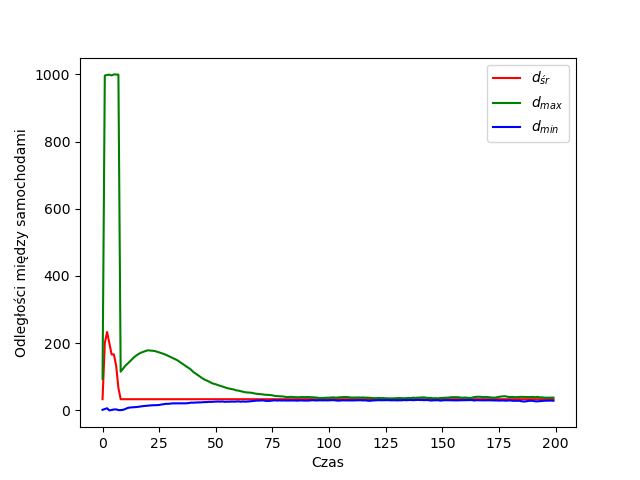
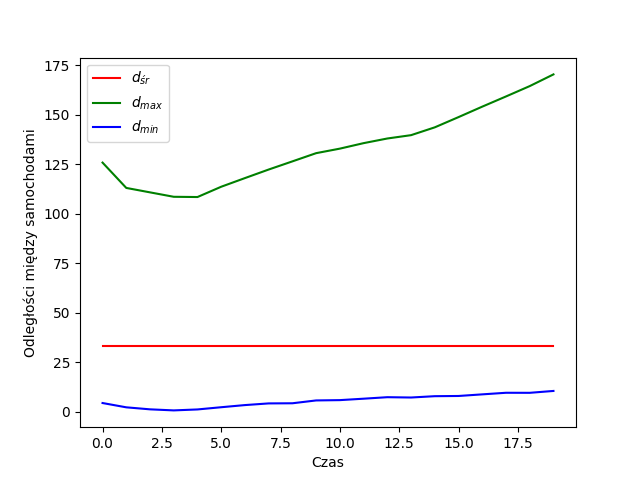
podstawowy model Q-leaning działa

diff --git a/RL/rl_model.py b/RL/rl_model.py
@@ -1,0 +1,198 @@
+import numpy as np
+import scipy.stats as stats
+import matplotlib.pyplot as plt
+import seaborn as sns
+import matplotlib.colors as colors
+import os
+from PIL import Image
+
+class QLearningSimulation:
+    def __init__(self, num, acc_coeff=1, br_coeff=1, eps=1, v_max=40, road_length=1000, num_cars=30, 
+                 time=20, reaction_time=1, v_disc=41, v_prev_disc=21, gap_disc=21, alpha=0.5, gamma=0.75):
+        self.num = num
+        self.acc_coeff = acc_coeff
+        self.br_coeff = br_coeff
+        self.eps = eps
+        self.v_max = v_max
+        self.road_length = road_length
+        self.num_cars = num_cars
+        self.time = time
+        self.reaction_time = reaction_time
+        self.alpha = alpha
+        self.gamma = gamma
+        self.x, self.v = self._generate_cars()
+        self.history_x = np.empty((self.time, self.num_cars))
+        self.history_v = np.empty((self.time, self.num_cars))
+        self.v_disc = np.arange(0, v_max, v_disc)
+        self.v_prev_disc = np.arange(0, v_max, v_prev_disc)
+        self.gap_disc = np.arange(0, v_max, gap_disc)
+        self.q_table_steady = np.zeros((v_disc, v_prev_disc, gap_disc))
+        self.q_table_accelerate = np.zeros((v_disc, v_prev_disc, gap_disc))
+    
+    def _generate_cars(self):
+        x = np.sort(np.random.uniform(0, self.road_length, self.num_cars))
+        v = np.random.uniform(0, self.v_max, self.num_cars)
+
+        return x, v
+
+    def simulation(self):
+        path = f'{os.getcwd()}/RL/simulations/{str(self.num).rjust(2, "0")}'
+        os.mkdir(path)
+        self._qlearning_simulation()
+        avg_speed, max_speed, min_speed, avg_position, std_position, avg_gaps, max_gaps, min_gaps = self._get_stats()
+        self._plot_space()
+        self._plot_to_gif(path)
+        self._plot_speed_stats(path, avg_speed, max_speed, min_speed)
+        self._plot_position_stats(path, avg_position, std_position)
+        self._plot_gaps_stats(path, avg_gaps, max_gaps, min_gaps)
+        self._plot_history(path)
+
+    def _qlearning_simulation(self):
+        for i in range(self.time):
+            self.x, self.v = self._qlearning_step(i)
+        #return self.history_x, self.history_v
+    
+    def _qlearning_step(self, step):
+        n = len(self.v)
+        v_new = np.empty(n)
+        x_new = np.empty(n)
+        gaps = np.array([self.x[(i+1) % n] - self.x[i] for i in range(n)])
+        gaps[-1] += self.road_length
+        for i in range(n):
+            
+            # wyznaczenie dyskretnych współrzędnych obecnego stanu w Q-table
+            
+            state = [np.searchsorted(self.v_disc, self.v[i]),
+                              np.searchsorted(self.v_prev_disc, self.v[(i-1) % n]),
+                              np.searchsorted(self.gap_disc, gaps[i])] 
+            
+            # wyznaczenie prędkości przy założeniu, że przyspieszymy/będziemy zmuszeni żeby zwolnić
+            
+            full_stop_time = (self.v[i] + self.v[(i+1) % n])/2*self.br_coeff
+            gap_des = self.reaction_time * self.v[(i+1) % n]
+            v_safe = self.v[(i+1) % n] + (gaps[i] - gap_des)/(self.reaction_time + full_stop_time)
+            v_des = min([self.v_max, self.v[i] + self.acc_coeff, v_safe])
+            
+            # podjęcie decyzji 
+            
+            if v_des > self.v[i]:
+                
+                if self.q_table_accelerate[state[0], state[1], state[2]] >= self.q_table_steady[state[0], state[1], state[2]]:
+                    action = 'accelerate'
+                    state_new = [np.searchsorted(self.v_disc, v_des), state[1], state[2]]
+                    v_new[i] = v_des
+                else:
+                    action = 'steady'
+                    state_new = [np.searchsorted(self.v_disc, self.v[i]), state[1], state[2]]
+                    v_new[i] = self.v[i]
+
+            else:
+                action = 'slowdown'
+                v_new[i] = v_des
+                
+        # zapisanie poprzedniego stanu
+        
+        self.history_v[step] = self.v
+        self.history_x[step] = self.x % self.road_length
+
+        # wprowadzenie nowego stanu
+        
+        for i in range(n):
+            x_new[i] = self.x[i] + v_new[i]
+        
+        # aktualizacja Q-table
+
+        for i in range(n):
+            if action == 'steady':
+                reward = v_new[(i-1) % n] - self.history_v[step][(i-1) % n]
+                self.q_table_steady[state] = (1 - self.alpha) * self.q_table_steady[state] + reward + self.gamma * self.q_table_steady[state_new]
+            elif action == 'accelerate':
+                reward = v_new[(i-1) % n] - self.history_v[step][(i-1) % n]
+                self.q_table_accelerate[state] = (1 - self.alpha) * self.q_table_accelerate[state] + reward + self.gamma * self.q_table_accelerate[state_new]
+
+        return np.sort(x_new), v_new
+    
+    def _get_stats(self):
+        n = np.size(self.history_x, 1)
+        avg_speed = [np.mean(self.history_v[i]) for i in range(self.time)]
+        max_speed = [np.max(self.history_v[i]) for i in range(self.time)]
+        min_speed = [np.min(self.history_v[i]) for i in range(self.time)]
+        avg_position = [np.mean(self.history_x[i]) for i in range(self.time)]
+        std_position = [np.std(self.history_x[i]) for i in range(self.time)]
+
+        gaps = [[(self.history_x[j][(i+1) % n] - self.history_x[j][i]) % self.road_length for i in range(n)] for j in range(self.time)]
+        gaps_avg = [np.mean(gaps[i]) for i in range(self.time)]
+        gaps_max = [np.max(gaps[i]) for i in range(self.time)]
+        gaps_min = [np.min(gaps[i]) for i in range(self.time)]
+    
+        return avg_speed, max_speed, min_speed, avg_position, std_position, gaps_avg, gaps_max, gaps_min
+    
+    def _plot_space(self):
+        n = len(self.history_x[0])
+        for i in range(self.time):
+            plt.scatter(self.history_x[i], [0]*n, c=self.history_v[i], cmap='viridis', vmax=40, vmin=0)
+            plt.colorbar()
+            plt.xlim((0, self.road_length))
+            plt.title(f't = {i} $\Delta t = 1$')
+            plt.savefig(f'Krauss/graphs/{str(i+1).rjust(4, "0")}.png')
+            plt.clf()
+    
+    def _plot_to_gif(self, path):
+        source = f'{os.getcwd()}/Krauss/graphs'
+        images = [Image.open(source + '/' + file) for file in os.listdir(source)]
+        images[0].save(f'{path}/simulation_gif.gif', 
+                    save_all=True,
+                    append_images=images[1:],
+                    duration=100,
+                    loop=0
+                    )
+        for file in os.listdir(f'{os.getcwd()}/Krauss/graphs'):
+            os.remove(os.path.join(f'{os.getcwd()}/Krauss/graphs', file))
+    
+    def _plot_speed_stats(self, path, avg_speed, max_speed, min_speed):
+        t = np.arange(self.time)
+        plt.plot(t, avg_speed, color='red', label='$v_{śr}$')
+        plt.plot(t, max_speed, color='green', label='$v_{max}$')
+        plt.plot(t, min_speed, color='blue', label='$v_{min}$')
+        plt.legend()
+        plt.xlabel('Czas')
+        plt.ylabel('Prędkość')
+        plt.savefig(f'{path}/speed_statistics.png')
+        plt.clf()
+
+    def _plot_position_stats(self, path, avg_position, std_position):
+        t = np.arange(self.time)
+        plt.plot(t, avg_position, color='red', label='$x_{śr}$')
+        plt.plot(t, std_position, color='blue', label='$\sigma_x$')
+        plt.legend()
+        plt.xlabel('Czas')
+        plt.ylabel('Wartość x')
+        plt.savefig(f'{path}/position_statistics.png')
+        plt.clf()
+
+    def _plot_gaps_stats(self, path, avg_gaps, max_gaps, min_gaps):
+        t = np.arange(self.time)
+        plt.plot(t, avg_gaps, color='red', label='$d_{śr}$')
+        plt.plot(t, max_gaps, color='green', label='$d_{max}$')
+        plt.plot(t, min_gaps, color='blue', label='$d_{min}$')
+        plt.legend()
+        plt.xlabel('Czas')
+        plt.ylabel('Odległości między samochodami')
+        plt.savefig(f'{path}/gaps_statistics.png')
+        plt.clf()
+
+    def _plot_history(self, path):
+        n = len(self.history_x[0])
+        for i in range(self.time):
+            plt.scatter(self.history_x[i], [i]*n, c=self.history_v[i], cmap='viridis', vmax=40, vmin=0)
+        plt.colorbar()
+        plt.xlim((0, self.road_length))
+        plt.gca().invert_yaxis()
+        plt.savefig(f'{path}/simulation.png')
+        plt.clf()
+
+    ###########################################################
+
+if __name__ == '__main__':
+    QLearningSimulation(4, time=300, alpha=0.8, gamma=0.8).simulation()
+

diff --git a/Krauss/krauss_model.py b/Krauss/krauss_model.py
@@ -31,8 +31,8 @@ class KraussSimulation:
     def simulation(self):
 
         path = f'{os.getcwd()}/Krauss/simulations/{str(self.num).rjust(2, "0")}'
-        #os.mkdir(path)
-        history_x, history_v = self._krauss_simulation()
+        os.mkdir(path)
+        self._krauss_simulation()
         avg_speed, max_speed, min_speed, avg_position, std_position, avg_gaps, max_gaps, min_gaps = self._get_stats()
         self._plot_space()
         self._plot_to_gif(path)
@@ -45,7 +45,7 @@ class KraussSimulation:
 
         for i in range(self.time):
             self.x, self.v = self._krauss_step(i)
-        return self.history_x, self.history_v
+        #return self.history_x, self.history_v
     
     def _krauss_step(self, step):
         n = len(self.v)
@@ -153,5 +153,5 @@ if __name__ == '__main__':
     #full_krauss_simulation(0, time=200)
     #full_krauss_simulation(1, time=1000, num_cars=100, road_length=5000)
     #full_krauss_simulation(2, time=2000, num_cars=300, road_length=5000)
-    KraussSimulation(6).simulation()
+    KraussSimulation(0).simulation()
 
